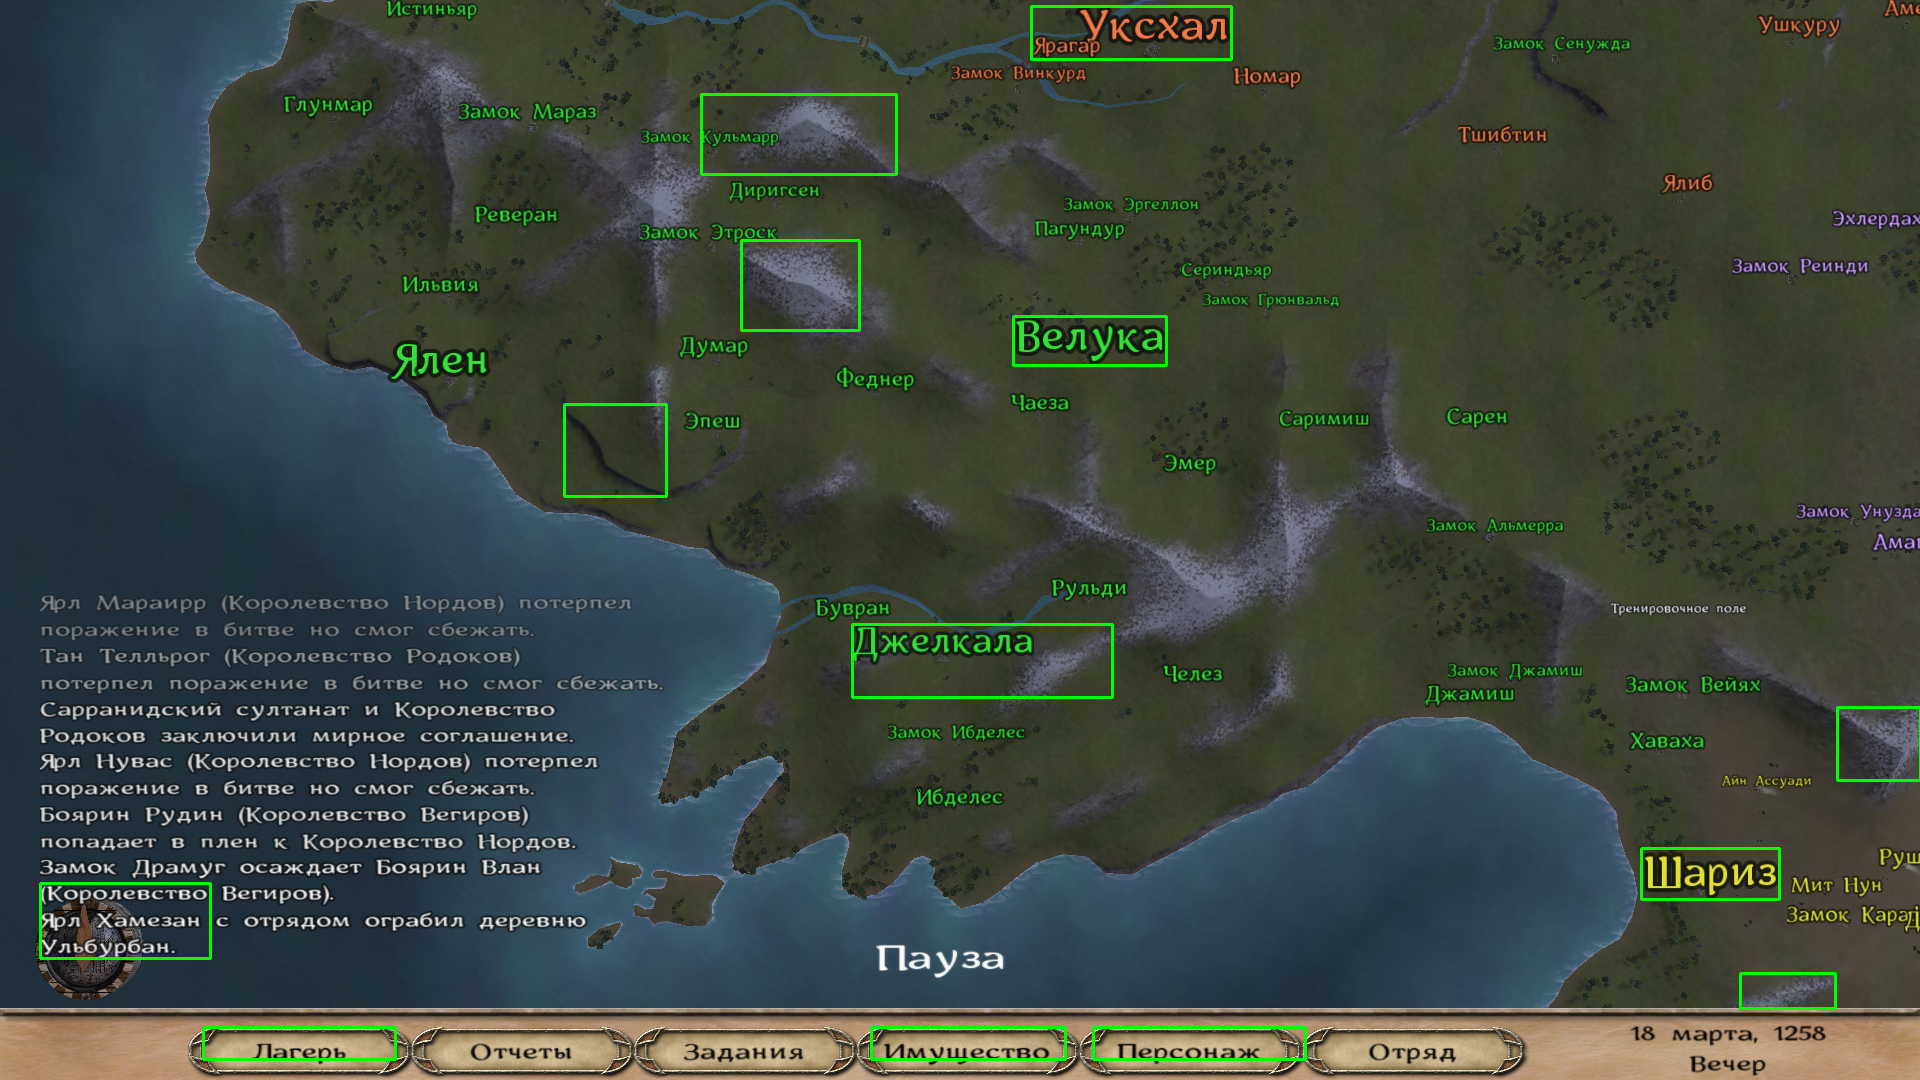
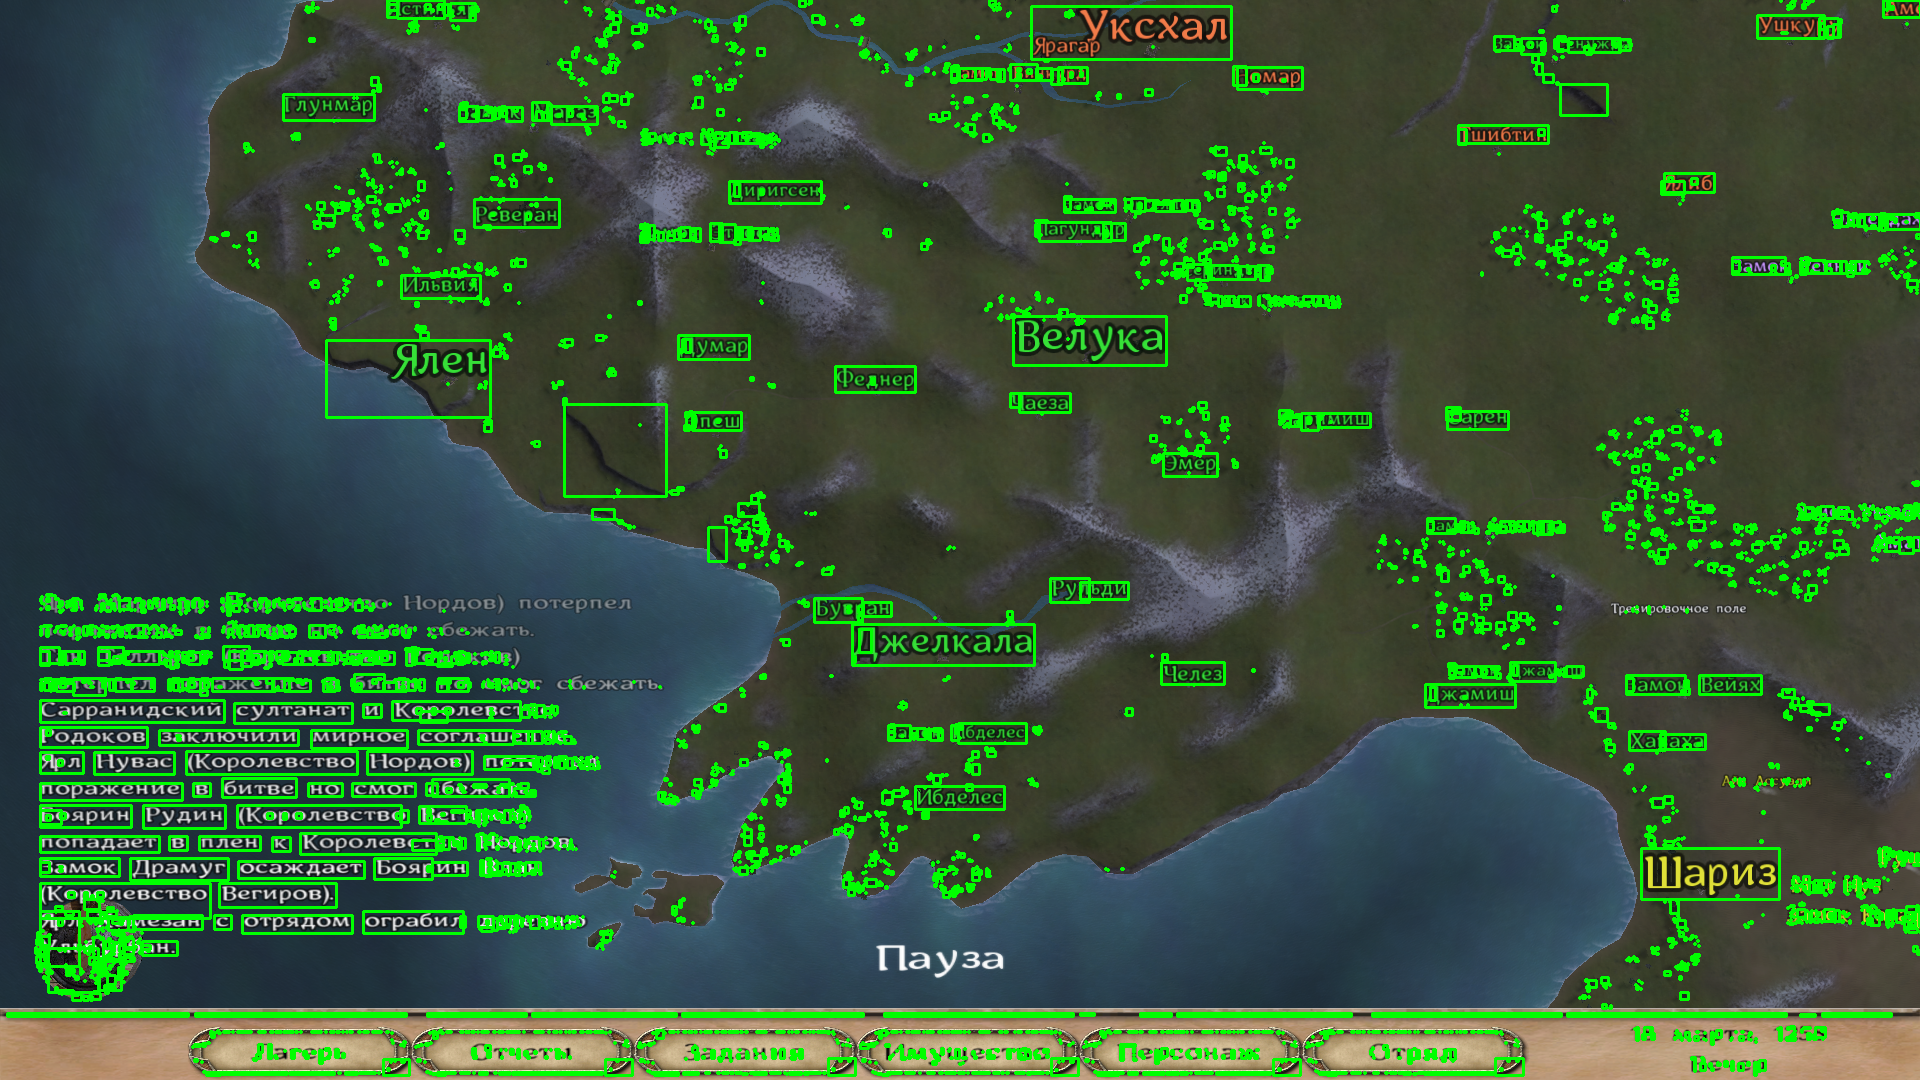
init 0.32 commit fog and morning may have errors fog range have little mistake normal needs more information(also very similar to morning) (Кудан и Курав)
now we can check time of day, so fog and evening filter work better!

fog works not normal
think about filter water and grass in black
necessary to initialize the time position and enable the filter depending on the time

diff --git a/main.py b/main.py
@@ -3,6 +3,20 @@ import os
 import numpy as np
 
 
+def timeOfDay(image: np.ndarray):
+    y, h = 1054, 19
+    x, w = 1625, 206
+    crop_img = image[y:y + h, x:x + w]
+    gray = cv2.cvtColor(crop_img, cv2.COLOR_BGR2GRAY)
+    for i in range(1, 4):
+        img1 = cv2.imread(rf"Images\time\img{i}.png")
+        img1 = img1.T[0].T
+
+        if np.array_equal(img1, gray):
+            return True
+
+    return False
+
 def filterImg(image: np.ndarray, range: list) -> np.ndarray:
     global black
 
@@ -11,16 +25,16 @@ def filterImg(image: np.ndarray, range: list) -> np.ndarray:
     result = cv2.bitwise_and(gray, gray, mask=mask)
     result[mask > 0] = 255
 
-
     if (shapeIm[0] * shapeIm[1]) / 10 < cv2.countNonZero(result):
         result = black.copy()
 
     return result
 
-#[79, 97]
-listOfRanges = [[16, 36], [79, 97], [97, 122], [27, 76], [40, 70]]
 
-folderTest = "normal"
+listOfNight = [[16, 36]]
+listOfRanges = [[79, 97], [97, 122], [27, 76], [40, 70]]
+
+folderTest = "morning"
 path = rf"Images\Screenshoots\{folderTest}"
 pathToWrite = rf"Images\results\{folderTest}"
 
@@ -29,13 +43,20 @@ files = os.listdir(path=fr".\{path}")
 
 for file in files:
     image = cv2.imread(rf"{path}\{file}")
+    flag = timeOfDay(image)
     shapeIm = image.shape[0:2]
     black = np.zeros(shapeIm, dtype=np.uint8)
     allRangesImg = black.copy()
 
-    for range in listOfRanges:
-        buf = filterImg(image, range)
-        allRangesImg = cv2.bitwise_or(allRangesImg, buf)
+    if flag:
+        for rang in listOfNight:
+            buf = filterImg(image, rang)
+            allRangesImg = cv2.bitwise_or(allRangesImg, buf)
+
+    else:
+        for rang in listOfRanges:
+            buf = filterImg(image, rang)
+            allRangesImg = cv2.bitwise_or(allRangesImg, buf)
 
 
     contours, _ = cv2.findContours(allRangesImg, cv2.RETR_EXTERNAL, cv2.CHAIN_APPROX_SIMPLE)
@@ -49,6 +70,7 @@ for file in files:
         # Проверка длины и ширины контура
         if w>30 and h>30:
             realContours.append([x, x+w, y, y+h])
+        #cv2.rectangle(image, (x, y), (x + w, y + h), (0, 255, 0), 2)
 
 
     i = 0
